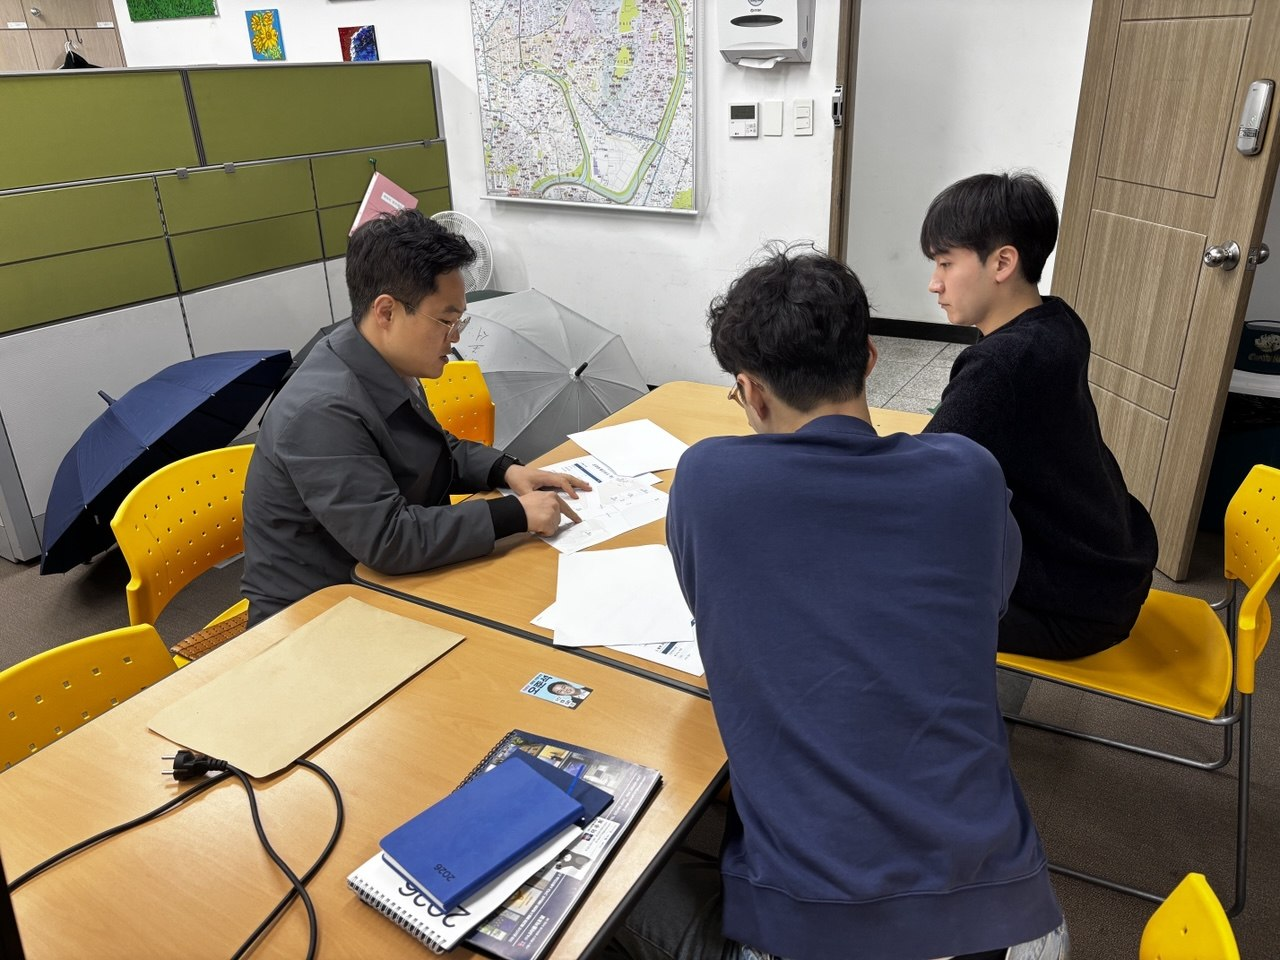
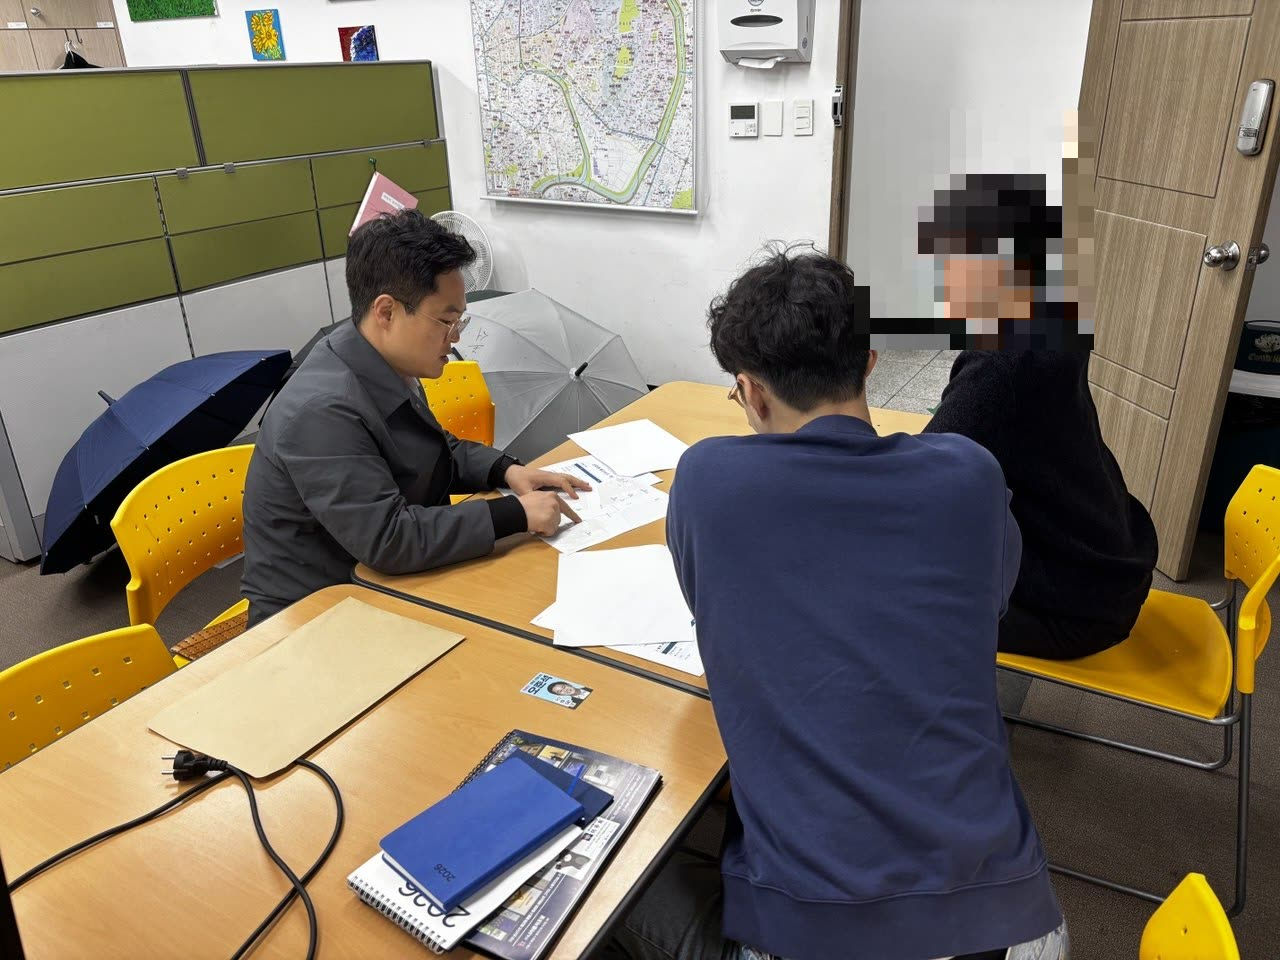
content: 횡단보도 페이지 정리 — 통계 카드/공유 CTA 제거, 사진 모자이크, 주민의견 링크
사용자 요청 반영:
- ActionHero에서 stats 3-카드(수집된 의견/핵심 이슈/면담) 제거
- 면담 사진의 경찰관 얼굴 픽셀 모자이크 처리 (ffmpeg)
- 사진 캡션 변경: "오준석 진보당 동대문구위원장은 주민들의 설문 결과를
  동대문경찰서에 전달하고 개선방안을 논의했습니다."
- 타임라인 planned 항목 2개 삭제 (구청 면담, 주민 보고 간담회)
- ShareCTA(공유/링크복사) 삭제 → OpinionsLink로 교체
- "이웃에게도 알려주세요" → "다른 의견이나 제안이 있으신가요? → 주민의견
  페이지(/opinions)로 가기" CTA로 변경

Changed region(s): [[0.6562, 0.125, 0.875, 0.375], [0.6562, 0.2812, 0.6875, 0.3125]]

diff --git a/src/components/crosswalk-action/ActionHero.tsx b/src/components/crosswalk-action/ActionHero.tsx
@@ -1,49 +1,25 @@
 import { SUMMARY_STATS } from "@/data/crosswalk-police-response";
 
 interface Props {
-  stats: typeof SUMMARY_STATS;
+  totalResponses?: number;
 }
 
-export default function ActionHero({ stats }: Props) {
+export default function ActionHero({
+  totalResponses = SUMMARY_STATS.totalResponses,
+}: Props) {
   return (
     <header className="bg-gradient-to-br from-sky-200 via-sky-300 to-sky-400 px-5 pt-24 pb-20 text-center">
       <span className="mb-4 inline-block rounded-full bg-party-red px-5 py-1.5 text-sm font-bold text-white shadow-sm">
         주민 의견 → 동대문경찰서 전달 완료
       </span>
       <h1 className="mb-4 text-3xl font-black leading-tight text-sky-900 md:text-4xl">
-        여러분의 <span className="text-party-red">{stats.totalResponses}건</span>이
+        여러분의 <span className="text-party-red">{totalResponses}건</span>이
         <br />
         경찰서로 전달됐습니다
       </h1>
-      <p className="mx-auto mb-8 max-w-md text-sm text-sky-800/80 md:text-base">
+      <p className="mx-auto max-w-md text-sm text-sky-800/80 md:text-base">
         주민 설문 결과를 바탕으로 동대문경찰서를 직접 찾아 면담했습니다.
       </p>
-
-      <div className="mx-auto grid max-w-md grid-cols-3 gap-3">
-        <StatCard label="수집된 의견" value={stats.totalResponses} unit="건" />
-        <StatCard label="핵심 이슈" value={stats.coreIssues} unit="대" />
-        <StatCard label="경찰서 면담" value={stats.meetingCount} unit="회" />
-      </div>
     </header>
-  );
-}
-
-function StatCard({
-  label,
-  value,
-  unit,
-}: {
-  label: string;
-  value: number;
-  unit: string;
-}) {
-  return (
-    <div className="rounded-2xl bg-white/40 px-3 py-4 backdrop-blur-md ring-1 ring-white/50">
-      <p className="text-xs font-medium text-sky-800/80">{label}</p>
-      <p className="mt-1 text-2xl font-black text-sky-900">
-        {value}
-        <span className="ml-0.5 text-sm font-bold">{unit}</span>
-      </p>
-    </div>
   );
 }

diff --git a/src/data/crosswalk-police-response.ts b/src/data/crosswalk-police-response.ts
@@ -91,9 +91,9 @@ export const ISSUES: Issue[] = [
 export const MEETING_PHOTOS: MeetingPhoto[] = [
   {
     src: "/crosswalk-police-2026-05-13.jpg",
-    alt: "동대문경찰서 면담 장면 — 오준석 후보가 주민 설문 결과를 설명하는 모습",
+    alt: "동대문경찰서 면담 장면 — 오준석 진보당 동대문구위원장이 주민 설문 결과를 설명하는 모습",
     caption:
-      "주민이 모아주신 25건의 설문 결과를 들고 동대문경찰서를 직접 찾아 횡단보도 개선 방안을 논의했습니다.",
+      "오준석 진보당 동대문구위원장은 주민들의 설문 결과를 동대문경찰서에 전달하고 개선방안을 논의했습니다.",
     date: "2026-05-13",
     width: 1280,
     height: 960,
@@ -172,17 +172,5 @@ export const TIMELINE: TimelineItem[] = [
     label: "이문3구역 조합 신호등 개선 공사",
     status: "in_progress",
     description: "이문로·천장산로 사거리 4구 신호등 설치 — 공사 일정 조합 측 문의 필요",
-  },
-  {
-    date: "예정",
-    label: "동대문구청 교통행정과 면담",
-    status: "planned",
-    description: "관할 이관 사항 협의 (대각선 횡단보도 등)",
-  },
-  {
-    date: "예정",
-    label: "주민 결과 보고 간담회",
-    status: "planned",
-    description: "면담 결과를 주민과 공유하고 다음 행동 계획",
   },
 ];

diff --git a/src/app/crosswalk-action/page.tsx b/src/app/crosswalk-action/page.tsx
@@ -4,7 +4,7 @@ import PoliceMeetingPhoto from "@/components/crosswalk-action/PoliceMeetingPhoto
 import SurveyResultSection from "@/components/crosswalk-action/SurveyResultSection";
 import PoliceResponseSection from "@/components/crosswalk-action/PoliceResponseSection";
 import ActionTimeline from "@/components/crosswalk-action/ActionTimeline";
-import ShareCTA from "@/components/crosswalk-action/ShareCTA";
+import OpinionsLink from "@/components/crosswalk-action/OpinionsLink";
 import {
   ISSUES,
   POLICE_RESPONSE,
@@ -37,7 +37,7 @@ export const metadata: Metadata = {
 export default function CrosswalkActionPage() {
   return (
     <main className="min-h-screen bg-sky-50 pb-20">
-      <ActionHero stats={SUMMARY_STATS} />
+      <ActionHero totalResponses={SUMMARY_STATS.totalResponses} />
 
       <div className="mx-auto max-w-3xl space-y-6 px-5 -mt-10 md:-mt-12">
         <PoliceMeetingPhoto photo={MEETING_PHOTOS[0]} />
@@ -47,7 +47,7 @@ export default function CrosswalkActionPage() {
         />
         <PoliceResponseSection response={POLICE_RESPONSE} />
         <ActionTimeline items={TIMELINE} />
-        <ShareCTA />
+        <OpinionsLink />
       </div>
     </main>
   );

diff --git a/src/components/crosswalk-action/OpinionsLink.tsx b/src/components/crosswalk-action/OpinionsLink.tsx
@@ -1,0 +1,23 @@
+import Link from "next/link";
+import { MessageSquare, ArrowRight } from "lucide-react";
+
+export default function OpinionsLink() {
+  return (
+    <section className="rounded-2xl bg-gradient-to-br from-sky-100 to-sky-200 p-6 text-center md:p-8">
+      <h2 className="mb-2 text-xl font-black text-sky-900">
+        다른 의견이나 제안이 있으신가요?
+      </h2>
+      <p className="mb-6 text-sm text-sky-800/80">
+        주민의견 페이지에 직접 의견을 남겨주세요.
+      </p>
+      <Link
+        href="/opinions"
+        className="inline-flex items-center gap-2 rounded-xl bg-gradient-to-r from-sky-500 to-sky-600 px-6 py-3 text-sm font-bold text-white shadow-lg shadow-sky-500/30 transition hover:-translate-y-0.5"
+      >
+        <MessageSquare className="h-4 w-4" />
+        주민의견 페이지로 가기
+        <ArrowRight className="h-4 w-4" />
+      </Link>
+    </section>
+  );
+}
